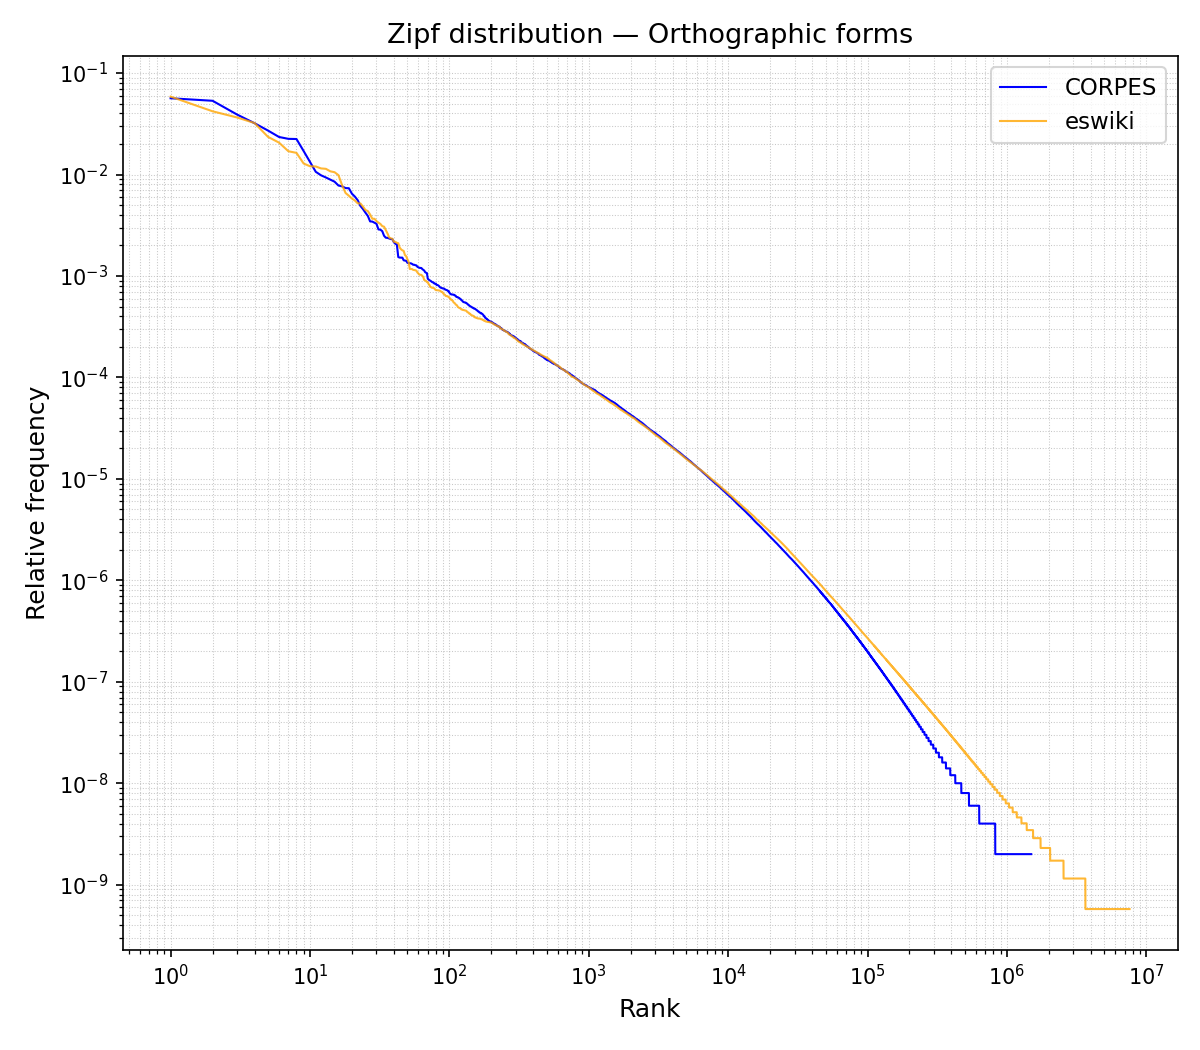
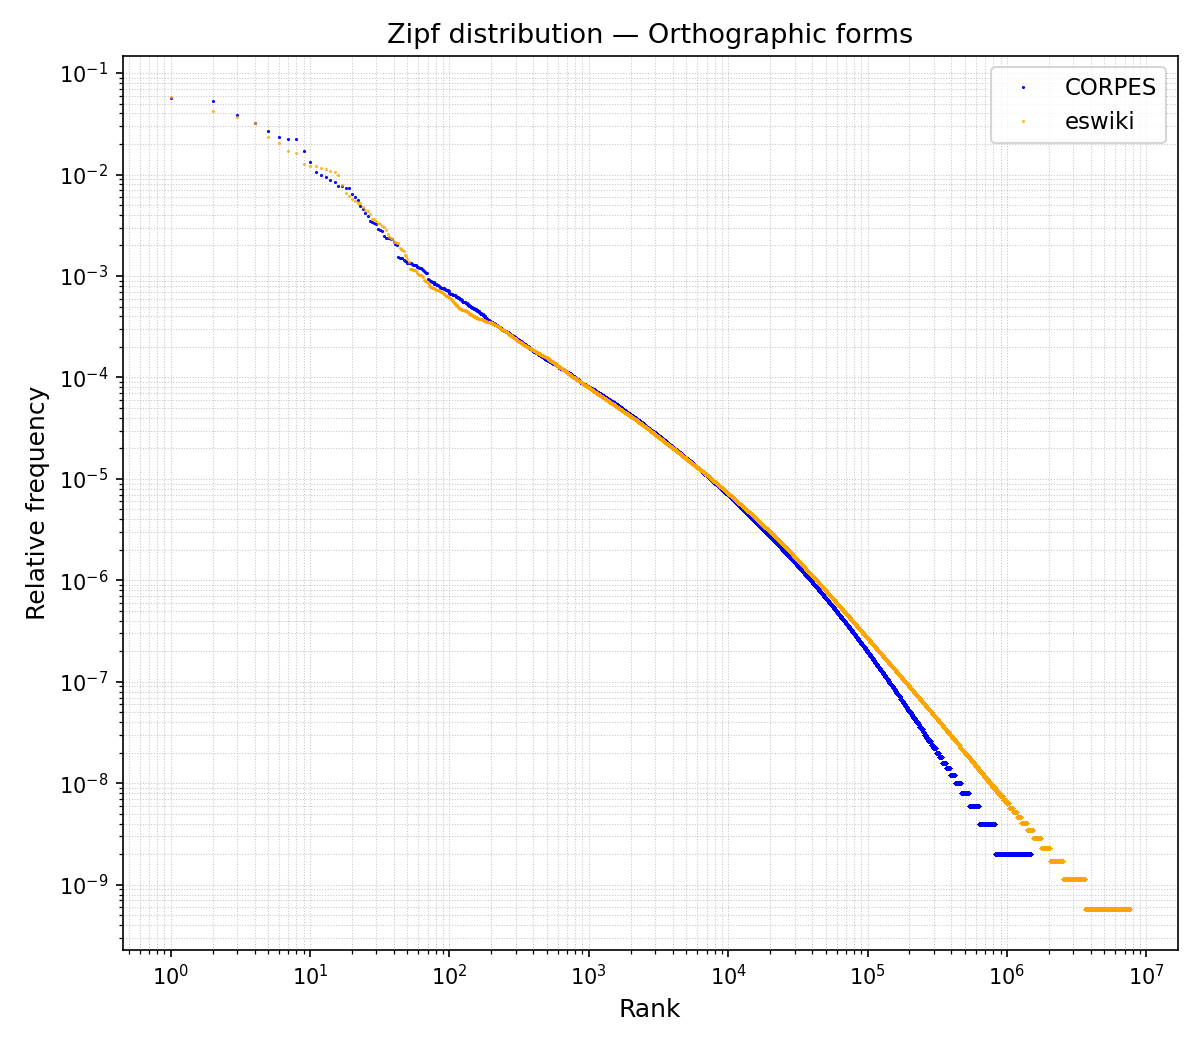
refactor: switch to scatter points in zipf analysis script

diff --git a/scripts/check_zipf/zipf.py b/scripts/check_zipf/zipf.py
@@ -36,7 +36,7 @@ def to_arrays(frequencies):
 def plot_zipf():
     script_dir   = Path(__file__).resolve().parent
     corpes_path  = (script_dir / '../../data/frequency/frecuencia_formas_ortograficas_1_4.txt').resolve()
-    eswiki_path  = next((script_dir / '../../data/frequency').resolve().glob('eswiki*.txt'), None)
+    eswiki_path  = (script_dir / '../../data/frequency/eswiki_20260301_word_frequencies.txt').resolve()
     output_path  = script_dir / 'zipf_plot.png'
 
     if not corpes_path.exists():
@@ -53,8 +53,8 @@ def plot_zipf():
     eswiki_ranks, eswiki_rel = to_arrays(read_eswiki(eswiki_path))
 
     fig, ax = plt.subplots(figsize=(8, 7))
-    ax.loglog(corpes_ranks, corpes_rel, color='blue',   linewidth=1, label='CORPES')
-    ax.loglog(eswiki_ranks, eswiki_rel, color='orange', linewidth=1, label='eswiki', alpha=0.8)
+    ax.loglog(corpes_ranks, corpes_rel, '.', color='blue',   markersize=1, label='CORPES')
+    ax.loglog(eswiki_ranks, eswiki_rel, '.', color='orange', markersize=1, label='eswiki', alpha=0.8)
 
     ax.set_xlabel('Rank', fontsize=12)
     ax.set_ylabel('Relative frequency', fontsize=12)